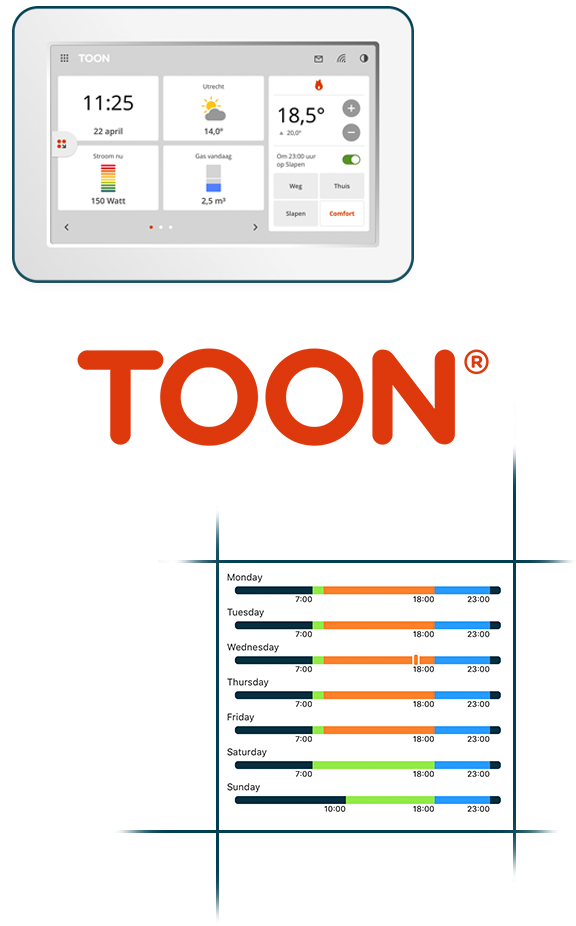
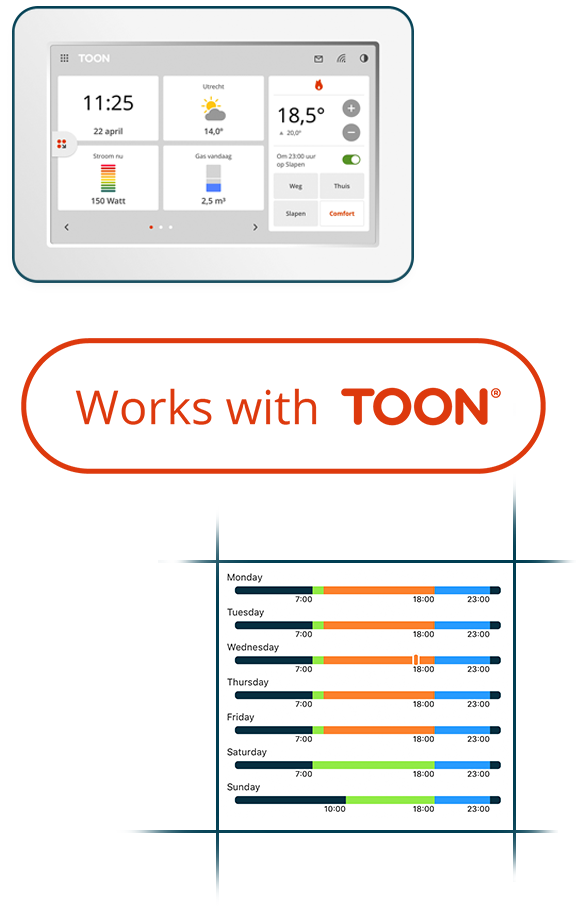
Release 2.2.0

diff --git a/js/views/thirdParty/toon/ToonSettings.tsx b/js/views/thirdParty/toon/ToonSettings.tsx
@@ -194,7 +194,7 @@ export class ToonSettings extends Component<any, any> {
               fontSize: 12,
               color: colors.black.rgba(0.6),
               padding:5
-            }} >{"This application uses the Toon API, follows the guiding principles for using the Toon API, but has not been developed by Toon."}
+            }}>{"This application uses the Toon API, follows the guiding principles for using the Toon API, but has not been developed by Toon."}
             </Text>
             <View style={{flex:1, minHeight:40}} />
           </View>
@@ -205,7 +205,6 @@ export class ToonSettings extends Component<any, any> {
 }
 
 class ToonSchedule extends Component<any, any> {
-
 
   padding = 20;
   availableWidth = screenWidth - 2*this.padding;

diff --git a/js/views/overlays/WhatsNew/2.2.0/ToonIsNew.tsx b/js/views/overlays/WhatsNew/2.2.0/ToonIsNew.tsx
@@ -20,7 +20,7 @@ export class ToonIsNew extends Component<any, any> {
           <View style={WNStyles.innerScrollView}>
             <Text style={WNStyles.text}>Crownstone works with Toon</Text>
             <View style={{height:30}} />
-            <Image source={require('../../../../images/whatsNew/2.2.0/whatsNewToon.png')} style={{width:576*size, height:926*size}} />
+            <Image source={require('../../../../images/whatsNew/2.2.0/whatsNewToon.png')} style={{width:576*size, height:906*size}} />
             <View style={{height:30}} />
             <Text style={WNStyles.detail}>{
               "Sometimes, Toon is set to \"Away\" while you're still there...\n\n" +

diff --git a/js/views/development/DebugIconSelection.tsx b/js/views/development/DebugIconSelection.tsx
@@ -219,7 +219,7 @@ export class DebugIconSelection extends Component<any, any> {
             </View>
           </TouchableOpacity>
 
-          <Text style={{position:'absolute', top: h + sh + 10, fontSize:14, color: colors.white.hex}}>{icons[iconIndex] + " o:" + topOffsetLabel.toFixed(3) + ',' +  + leftOffsetLabel.toFixed(3)}</Text>
+          <Text style={{position:'absolute', top: h + sh + 10, fontSize:14, color: colors.white.hex}}>{icons[iconIndex] + " o:" + topOffsetLabel.toFixed(3) + ',' + leftOffsetLabel.toFixed(3)}</Text>
         </View>
       );
     }

diff --git a/js/views/messaging/MessageInbox.tsx b/js/views/messaging/MessageInbox.tsx
@@ -225,9 +225,7 @@ export class MessageInbox extends Component<any, any> {
                 <View style={{height: 0.4*iconSize}} />
                 { iconButton }
                 <View style={{height: 0.6*iconSize}} />
-                <Text style={messageExplanationStyle}>
-                  Tap the envelope icon to create a new message!
-                </Text>
+                <Text style={messageExplanationStyle}>Tap the envelope icon to create a new message!</Text>
                 <View style={{flex:2}} />
               </View>
             </ScrollView>

diff --git a/js/views/overlays/WhatsNew/1.10.2/BugsFixedAndroid1.10.2.tsx b/js/views/overlays/WhatsNew/1.10.2/BugsFixedAndroid1.10.2.tsx
@@ -10,7 +10,7 @@ import {screenWidth} from "../../../styles";
 import {WNStyles} from "../WhatsNewStyles";
 
 
-export class BugsFixedAndroid extends Component<any, any> {
+export class BugsFixedAndroid1102 extends Component<any, any> {
   render() {
     let factor = 0.0001*screenWidth;
     let size = 9*factor;

diff --git a/js/views/overlays/WhatsNew/1.10.2/BugsFixediOS1.10.2.tsx b/js/views/overlays/WhatsNew/1.10.2/BugsFixediOS1.10.2.tsx
@@ -10,7 +10,7 @@ import {screenWidth} from "../../../styles";
 import {WNStyles} from "../WhatsNewStyles";
 
 
-export class BugsFixediOS extends Component<any, any> {
+export class BugsFixediOS1102 extends Component<any, any> {
   render() {
     let factor = 0.0001*screenWidth;
     let size = 9*factor;
